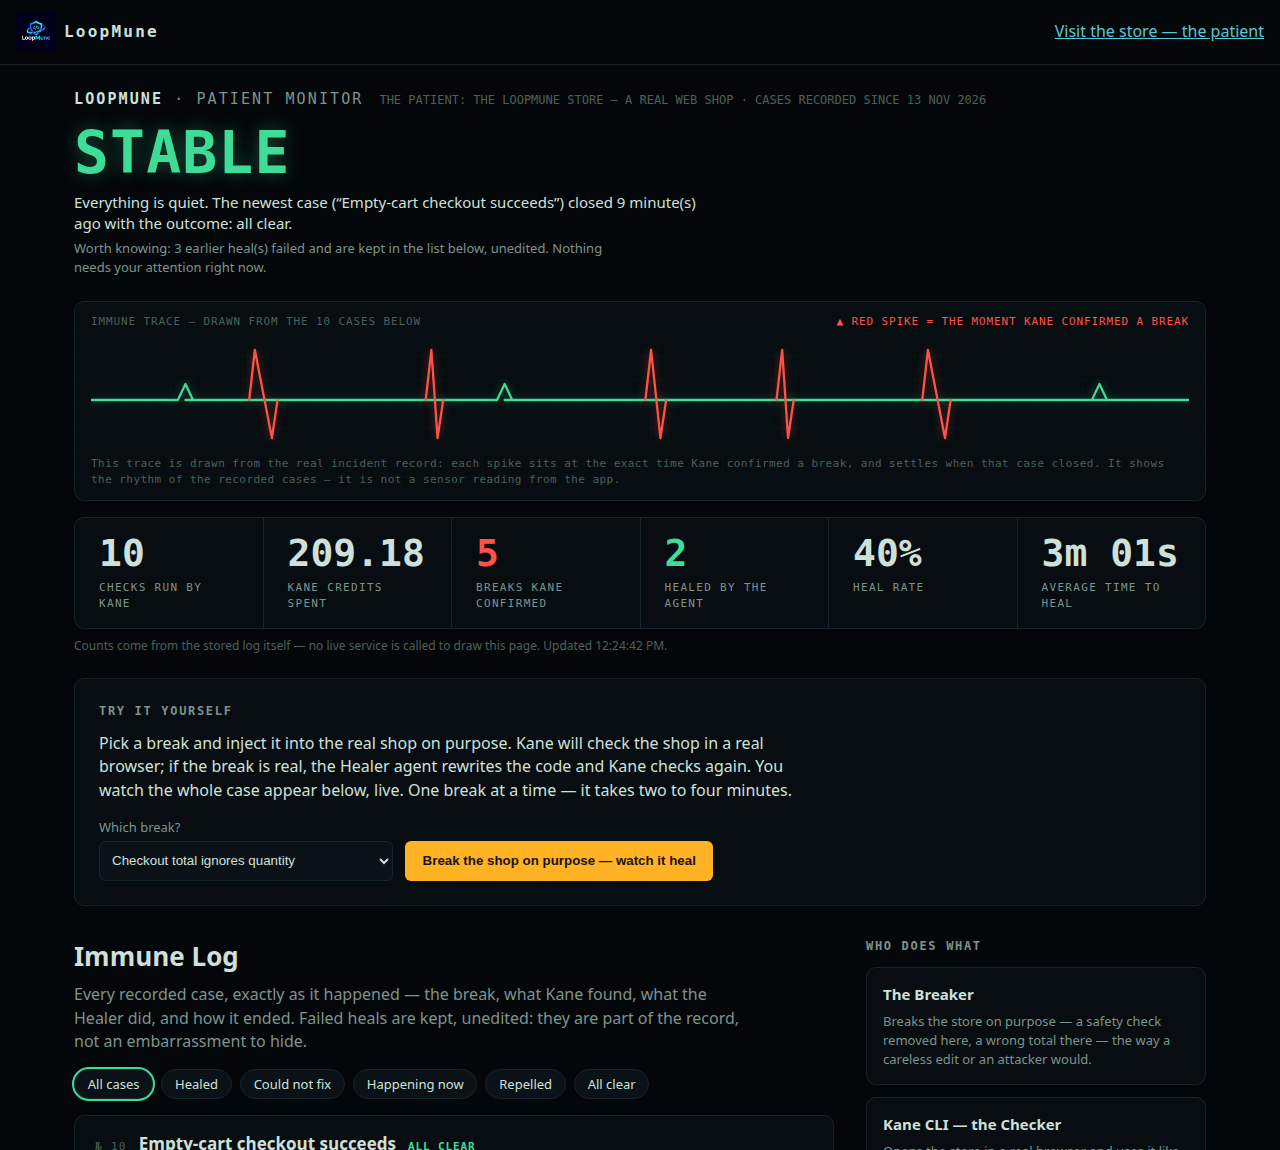
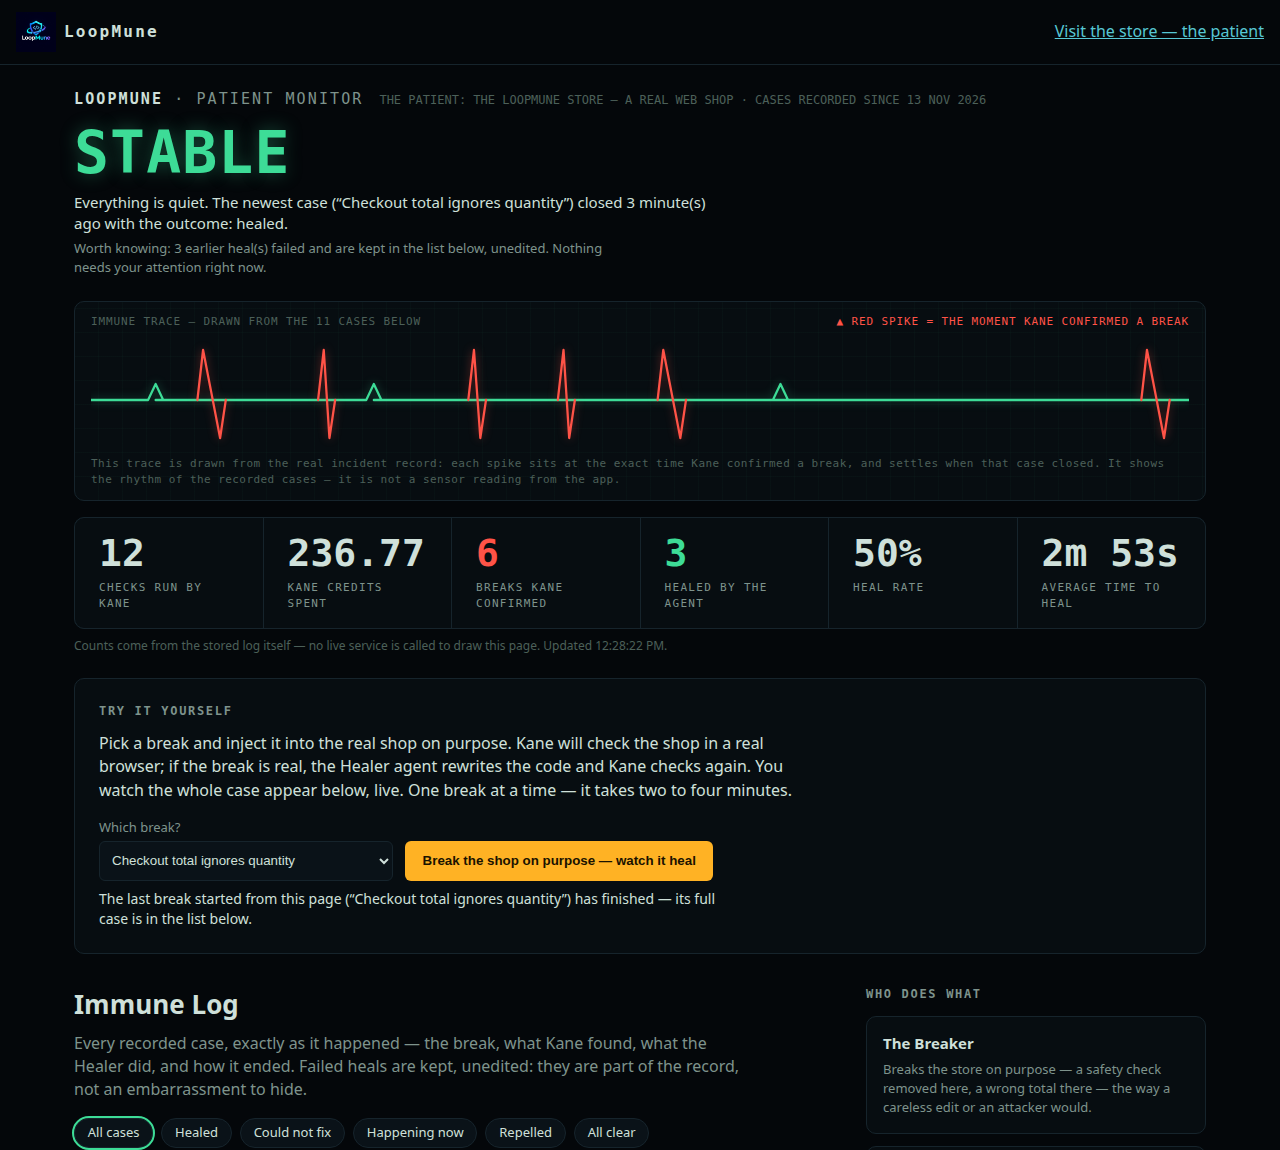
Record: break-it verification cycle, healed end to end
Started through the new POST /api/break endpoint against the running
dashboard: Kane verify failed (exit 1, 22.28 credits), the Healer
fixed totals() on attempt 1, Kane re-verification passed (exit 0,
5.32 credits). Cycle total 27.60 credits; log now holds 11 incidents
(3 healed, heal rate 50%). Dashboard screenshot refreshed to match.

diff --git a/evidence/inc-2026-11-13T12-25-19-777Z-total-ignores-qty/patch-1-cart.js b/evidence/inc-2026-11-13T12-25-19-777Z-total-ignores-qty/patch-1-cart.js
@@ -1,0 +1,85 @@
+// LoopMune Patient — cart aggregate.
+//
+// Owns the cart lines and the deterministic money math. All prices are
+// integer rupiah and totals are always computed here from price x quantity;
+// the client never supplies a total.
+
+import { findProduct } from './catalog.js';
+import { httpError } from './errors.js';
+
+export function createCart() {
+  const lines = new Map(); // productId -> qty
+
+  function totals() {
+    let total = 0;
+    let count = 0;
+    for (const [id, qty] of lines) {
+      const product = findProduct(id);
+      if (!product) continue;
+      total += product.price * qty;
+      count += qty;
+    }
+    return { total, count };
+  }
+
+  function snapshot() {
+    const items = [];
+    for (const [id, qty] of lines) {
+      const product = findProduct(id);
+      if (!product) continue;
+      items.push({ id, name: product.name, price: product.price, qty, lineTotal: product.price * qty });
+    }
+    const { total, count } = totals();
+    return { items, total, count };
+  }
+
+  return {
+    add(id, qty = 1) {
+      const product = findProduct(id);
+      if (!product) throw httpError(404, 'product not found');
+      if (!Number.isInteger(qty) || qty === 0) {
+        throw httpError(400, 'quantity must be a non-zero integer');
+      }
+      if (qty < 0) {
+        throw httpError(400, 'quantity cannot be negative');
+      }
+      const next = (lines.get(id) || 0) + qty;
+      if (next > product.stock) {
+        throw httpError(400, `only ${product.stock} in stock for ${product.name}`);
+      }
+      lines.set(id, next);
+      return snapshot();
+    },
+
+    // Set an absolute quantity from the cart page (0 removes the line).
+    set(id, qty) {
+      const product = findProduct(id);
+      if (!product) throw httpError(404, 'product not found');
+      if (!Number.isInteger(qty) || qty < 0) {
+        throw httpError(400, 'quantity must be a whole number, zero or more');
+      }
+      if (qty > product.stock) {
+        throw httpError(400, `only ${product.stock} in stock for ${product.name}`);
+      }
+      if (qty === 0) lines.delete(id);
+      else lines.set(id, qty);
+      return snapshot();
+    },
+
+    remove(id) {
+      lines.delete(id);
+      return snapshot();
+    },
+
+    clear() {
+      lines.clear();
+    },
+
+    isEmpty() {
+      return lines.size === 0;
+    },
+
+    totals,
+    snapshot,
+  };
+}
